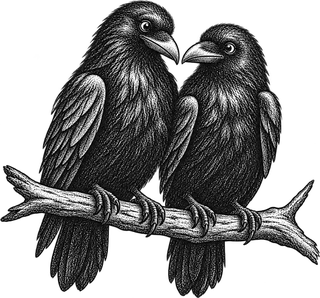
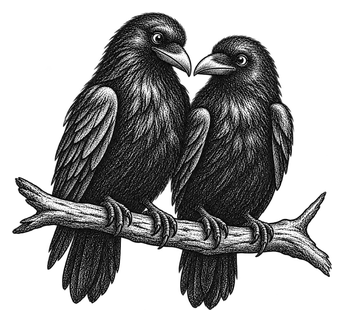
Raben im dunklen Modus mit klarer heller Umrandung statt Papierkarte
Claude-Session: https://claude.ai/code/session_01CUtUTXpL6JbuMBRZbEXHh3

diff --git a/styles.css b/styles.css
@@ -221,12 +221,21 @@ button.item > svg { color:var(--faint); }
 /* ---------- Leere Seiten: Raben-Zeichnungen von Anna als Maske, Farbe aus dem Thema ---------- */
 .empty-state { display:flex; flex-direction:column; align-items:center; text-align:center; gap:var(--s3); padding:var(--s6) var(--s4) var(--s5); color:var(--muted); }
 .empty-state p { margin:0; max-width:32ch; }
-/* Im Dunkeln liegt die Zeichnung auf einer hellen Papierkarte statt invertiert. */
-.raven { display:block; position:relative; width:128px; height:128px; border-radius:var(--r-card); background:var(--raven-card, transparent); }
-.raven::before { content:""; position:absolute; inset:var(--raven-pad, 0); background:var(--raven-ink, var(--muted)); opacity:.9;
+/* Im Dunkeln: Zeichnung in Tinte mit klarer heller Umrandung (wie ein Aufkleber) statt invertiert. */
+.raven { display:block; position:relative; width:128px; height:128px; }
+.raven::before, .raven::after { content:""; position:absolute; inset:0; }
+.raven::before { display:none; background:var(--raven-edge, transparent);
+  -webkit-mask:var(--raven-rand) center / contain no-repeat; mask:var(--raven-rand) center / contain no-repeat; }
+.raven::after { background:var(--raven-ink, var(--muted)); opacity:.9;
   -webkit-mask:var(--raven) center / contain no-repeat; mask:var(--raven) center / contain no-repeat; }
-[data-theme="dark"] .raven { --raven-card:#E4E2DB; --raven-ink:#1B1B1A; --raven-pad:12px; width:144px; height:144px; }
-@media (prefers-color-scheme: dark) { :root:not([data-theme="light"]) .raven { --raven-card:#E4E2DB; --raven-ink:#1B1B1A; --raven-pad:12px; width:144px; height:144px; } }
+[data-theme="dark"] .raven { --raven-edge:#E4E2DB; --raven-ink:#111111; }
+[data-theme="dark"] .raven::before { display:block; }
+[data-theme="dark"] .raven::after { opacity:1; }
+@media (prefers-color-scheme: dark) {
+  :root:not([data-theme="light"]) .raven { --raven-edge:#E4E2DB; --raven-ink:#111111; }
+  :root:not([data-theme="light"]) .raven::before { display:block; }
+  :root:not([data-theme="light"]) .raven::after { opacity:1; }
+}
 
 /* ---------- Rückgängig ---------- */
 .toast { position:fixed; z-index:30; left:50%; transform:translateX(-50%); bottom:calc(var(--tap) + 24px + env(safe-area-inset-bottom, 0px));

diff --git a/src/ui.js b/src/ui.js
@@ -47,7 +47,10 @@ export function who(state, id) {
 }
 
 /** Leere Seite mit Rabe. */
-const emptyState = (motif, text) => `<div class="empty-state"><span class="raven" style="--raven:url('icons/${RAVEN[motif] || RAVEN.today}')" aria-hidden="true"></span><p>${esc(text)}</p></div>`;
+const emptyState = (motif, text) => {
+  const img = RAVEN[motif] || RAVEN.today;
+  return `<div class="empty-state"><span class="raven" style="--raven:url('icons/${img}');--raven-rand:url('icons/${img.replace('.png', '-rand.png')}')" aria-hidden="true"></span><p>${esc(text)}</p></div>`;
+};
 
 /** Alle Termine: eigene und die aus fremden Kalendern (nur die von noch eingetragenen Kalendern). */
 function allEvents(state) {

diff --git a/sw.js b/sw.js
@@ -4,7 +4,7 @@ const SHELL = [
   './', 'index.html', 'styles.css', 'manifest.webmanifest',
   'src/main.js', 'src/model.js', 'src/logic.js', 'src/storage.js', 'src/sync.js', 'src/texts.js', 'src/ui.js',
   'icons/favicon.png', 'icons/icon-180.png', 'icons/icon-192.png', 'icons/icon-512.png', 
-  ...['shopping', 'tasks', 'calendar', 'today', 'notes', 'contacts', 'gifts', 'projects', 'search'].map((m) => `icons/rabe-${m}.png`),
+  ...['shopping', 'tasks', 'calendar', 'today', 'notes', 'contacts', 'gifts', 'projects', 'search'].flatMap((m) => [`icons/rabe-${m}.png`, `icons/rabe-${m}-rand.png`]),
 ];
 
 self.addEventListener('install', (e) => {
